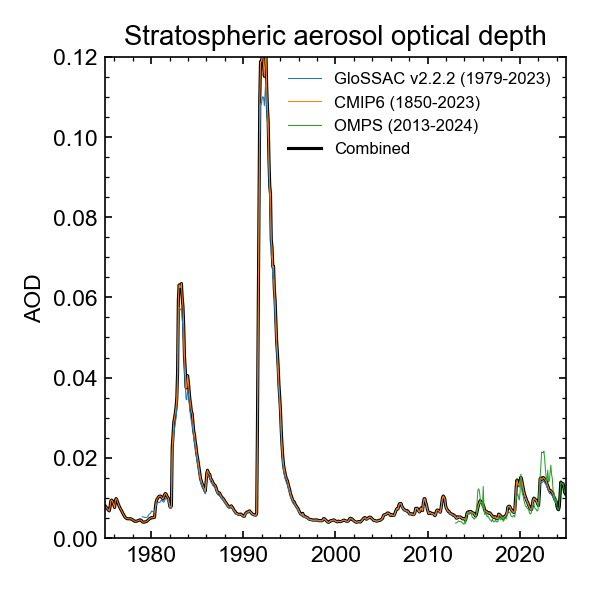
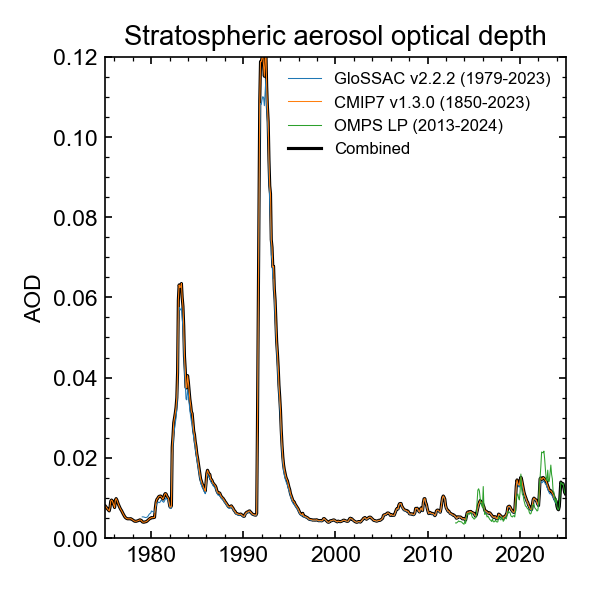
update legend

Changed region(s): [[0.6407, 0.1525, 0.9153, 0.2441]]

diff --git a/notebooks/10_volcanic-forcing.py b/notebooks/10_volcanic-forcing.py
@@ -5,7 +5,7 @@
 #       extension: .py
 #       format_name: percent
 #       format_version: '1.3'
-#       jupytext_version: 1.16.6
+#       jupytext_version: 1.17.0
 #   kernelspec:
 #     display_name: Python 3 (ipykernel)
 #     language: python
@@ -218,8 +218,8 @@ pl.legend()
 
 # %%
 pl.plot(np.arange(1979+1/24,2024+1/24,1/12), aod_glossac, label='GloSSAC v2.2.2 (1979-2023)', lw=0.5)
-pl.plot(np.arange(1975+1/24,2024+1/24,1/12), aod_cmip7[-588:], label='CMIP6 (1850-2023)', lw=0.5)
-pl.plot(np.arange(2013+1/24,2025+1/24,1/12), aod_omps, label='OMPS (2013-2024)', lw=0.5)
+pl.plot(np.arange(1975+1/24,2024+1/24,1/12), aod_cmip7[-588:], label='CMIP7 v1.3.0 (1850-2023)', lw=0.5)
+pl.plot(np.arange(2013+1/24,2025+1/24,1/12), aod_omps, label='OMPS LP (2013-2024)', lw=0.5)
 pl.plot(np.arange(1975+1/24,2025+1/24,1/12), aod[-600:], label='Combined', zorder=-2, color='k')
 pl.title('Stratospheric aerosol optical depth')
 pl.ylabel("AOD")
